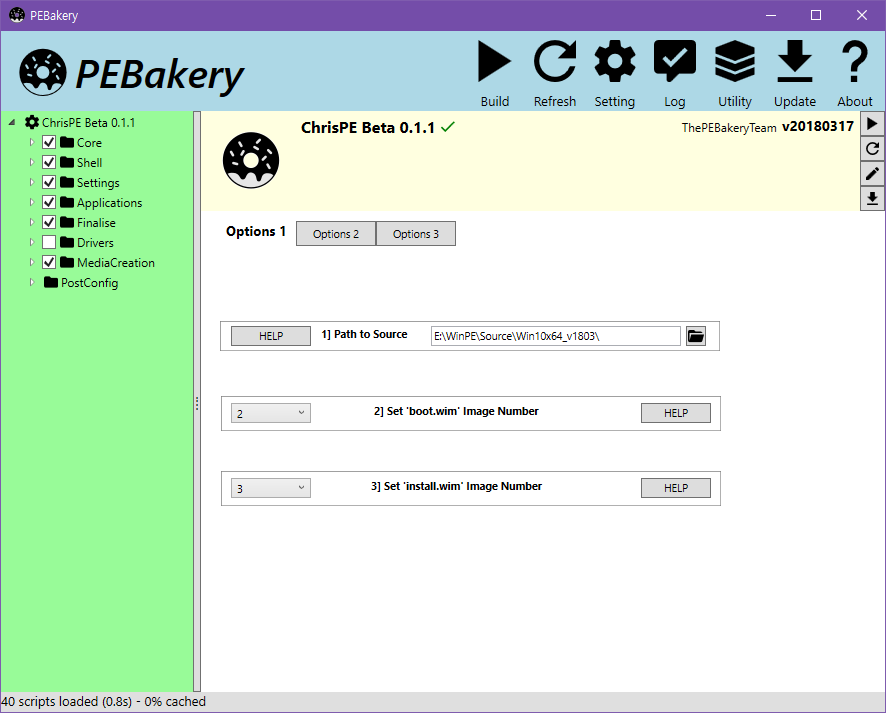
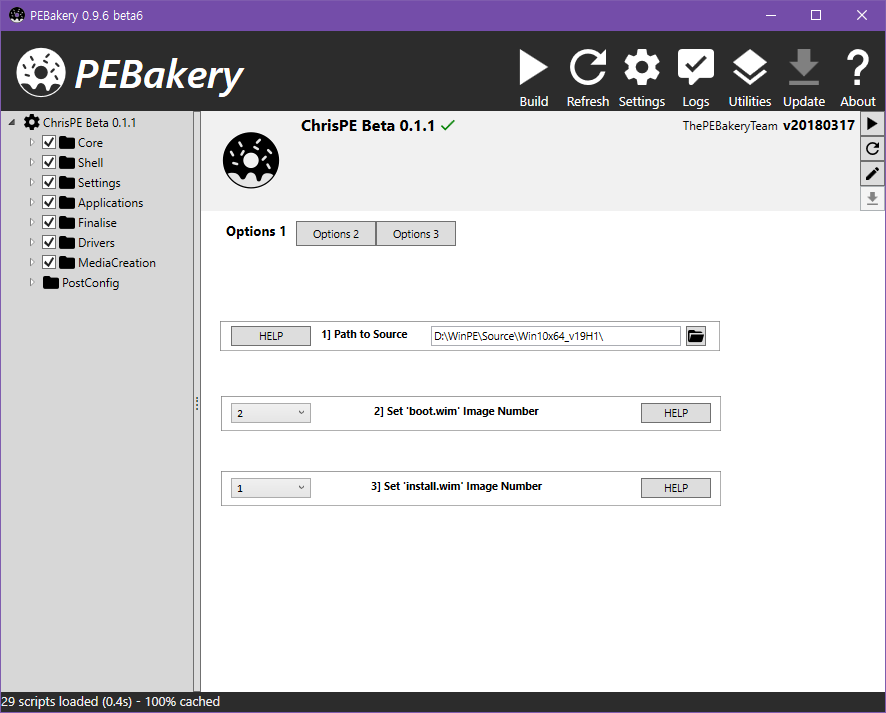
Update README.md

diff --git a/README.md b/README.md
@@ -23,12 +23,12 @@ PEBakery is backward compatible with WinBuilder 082 and makes significant improv
 
 The official release version is recommended for general use.
 
-A nightly build is provided for the testing purpose.
+A nightly build is provided for testing purposes.
 
 - [Official Release](https://github.com/pebakery/pebakery/releases)
 - [Lastest Nightly (develop)](https://ci.appveyor.com/api/projects/ied206/PEBakery/artifacts/nightly.zip?branch=develop)
 
-**CAUTION**: Do not forget to set the proper compatibility options for your projects. We have prepared a special [Migrating from Winbuilder](https://github.com/pebakery/pebakery-docs/blob/master/CodingGuide/Migrating.md) guide so you know what script breaking changes to expect and when compatibilty options need to be enabled.
+**CAUTION**: Do not forget to set the proper compatibility options for your projects. We have prepared a special [Migrating from Winbuilder](https://github.com/pebakery/pebakery-docs/blob/master/CodingGuide/Migrating.md) guide, so you know what script breaking changes to expect and when compatibility options need to be enabled.
 
 ## Prerequisites
 
@@ -45,12 +45,12 @@ Please read [LICENSE](./LICENSE) for details.
 
 ## Build
 
-To compile PEBakery from source, Visual Studio and .Net Framework are required.
+Visual Studio, .Net Framework, and .Net Core are required to compile PEBakery from the source.
 
 ### Requirement
 
 - [Visual Studio 2019 16.3](https://visualstudio.microsoft.com/en/thank-you-downloading-visual-studio/?sku=community&rel=16) or higher.
-- [.Net Framework 4.7.2 Developer Pack](https://go.microsoft.com/fwlink/?linkid=874338) or higher for C# application projects.
+- [.Net Framework 4.7.2 Developer Pack](https://go.microsoft.com/fwlink/?linkid=874338) for C# application projects.
 - [.Net Core 2.1 SDK](https://dotnet.microsoft.com/download) or higher for C# libraries.
 - [Windows 10 SDK (10.0.18362.0)](https://developer.microsoft.com/ko-kr/windows/downloads/windows-10-sdk) for compiling [LauncherNative](./LauncherNative).
   - [LauncherNative](./LauncherNative) can be compiled with virtually any supported version of Windows SDK.
@@ -68,10 +68,8 @@ See our [Roadmap](https://github.com/pebakery/pebakery/projects/2).
 
 ## Screenshots
 
-### PEBakery Nightly (20191003)
+### PEBakery Beta 6
 
-![Win10XPE with PEBakery 20191003](./Image/PEBakery-nightly-Win10XPE.png)
+![Win10XPE with PEBakery Beta 6](./Image/PEBakery-Win10XPE.png)
 
-### PEBakery Beta 5
-
-![ChrisPE with PEBakery Beta 5](./Image/PEBakery-ChrisPE.png)
+![ChrisPE with PEBakery Beta 6](./Image/PEBakery-ChrisPE.png)
